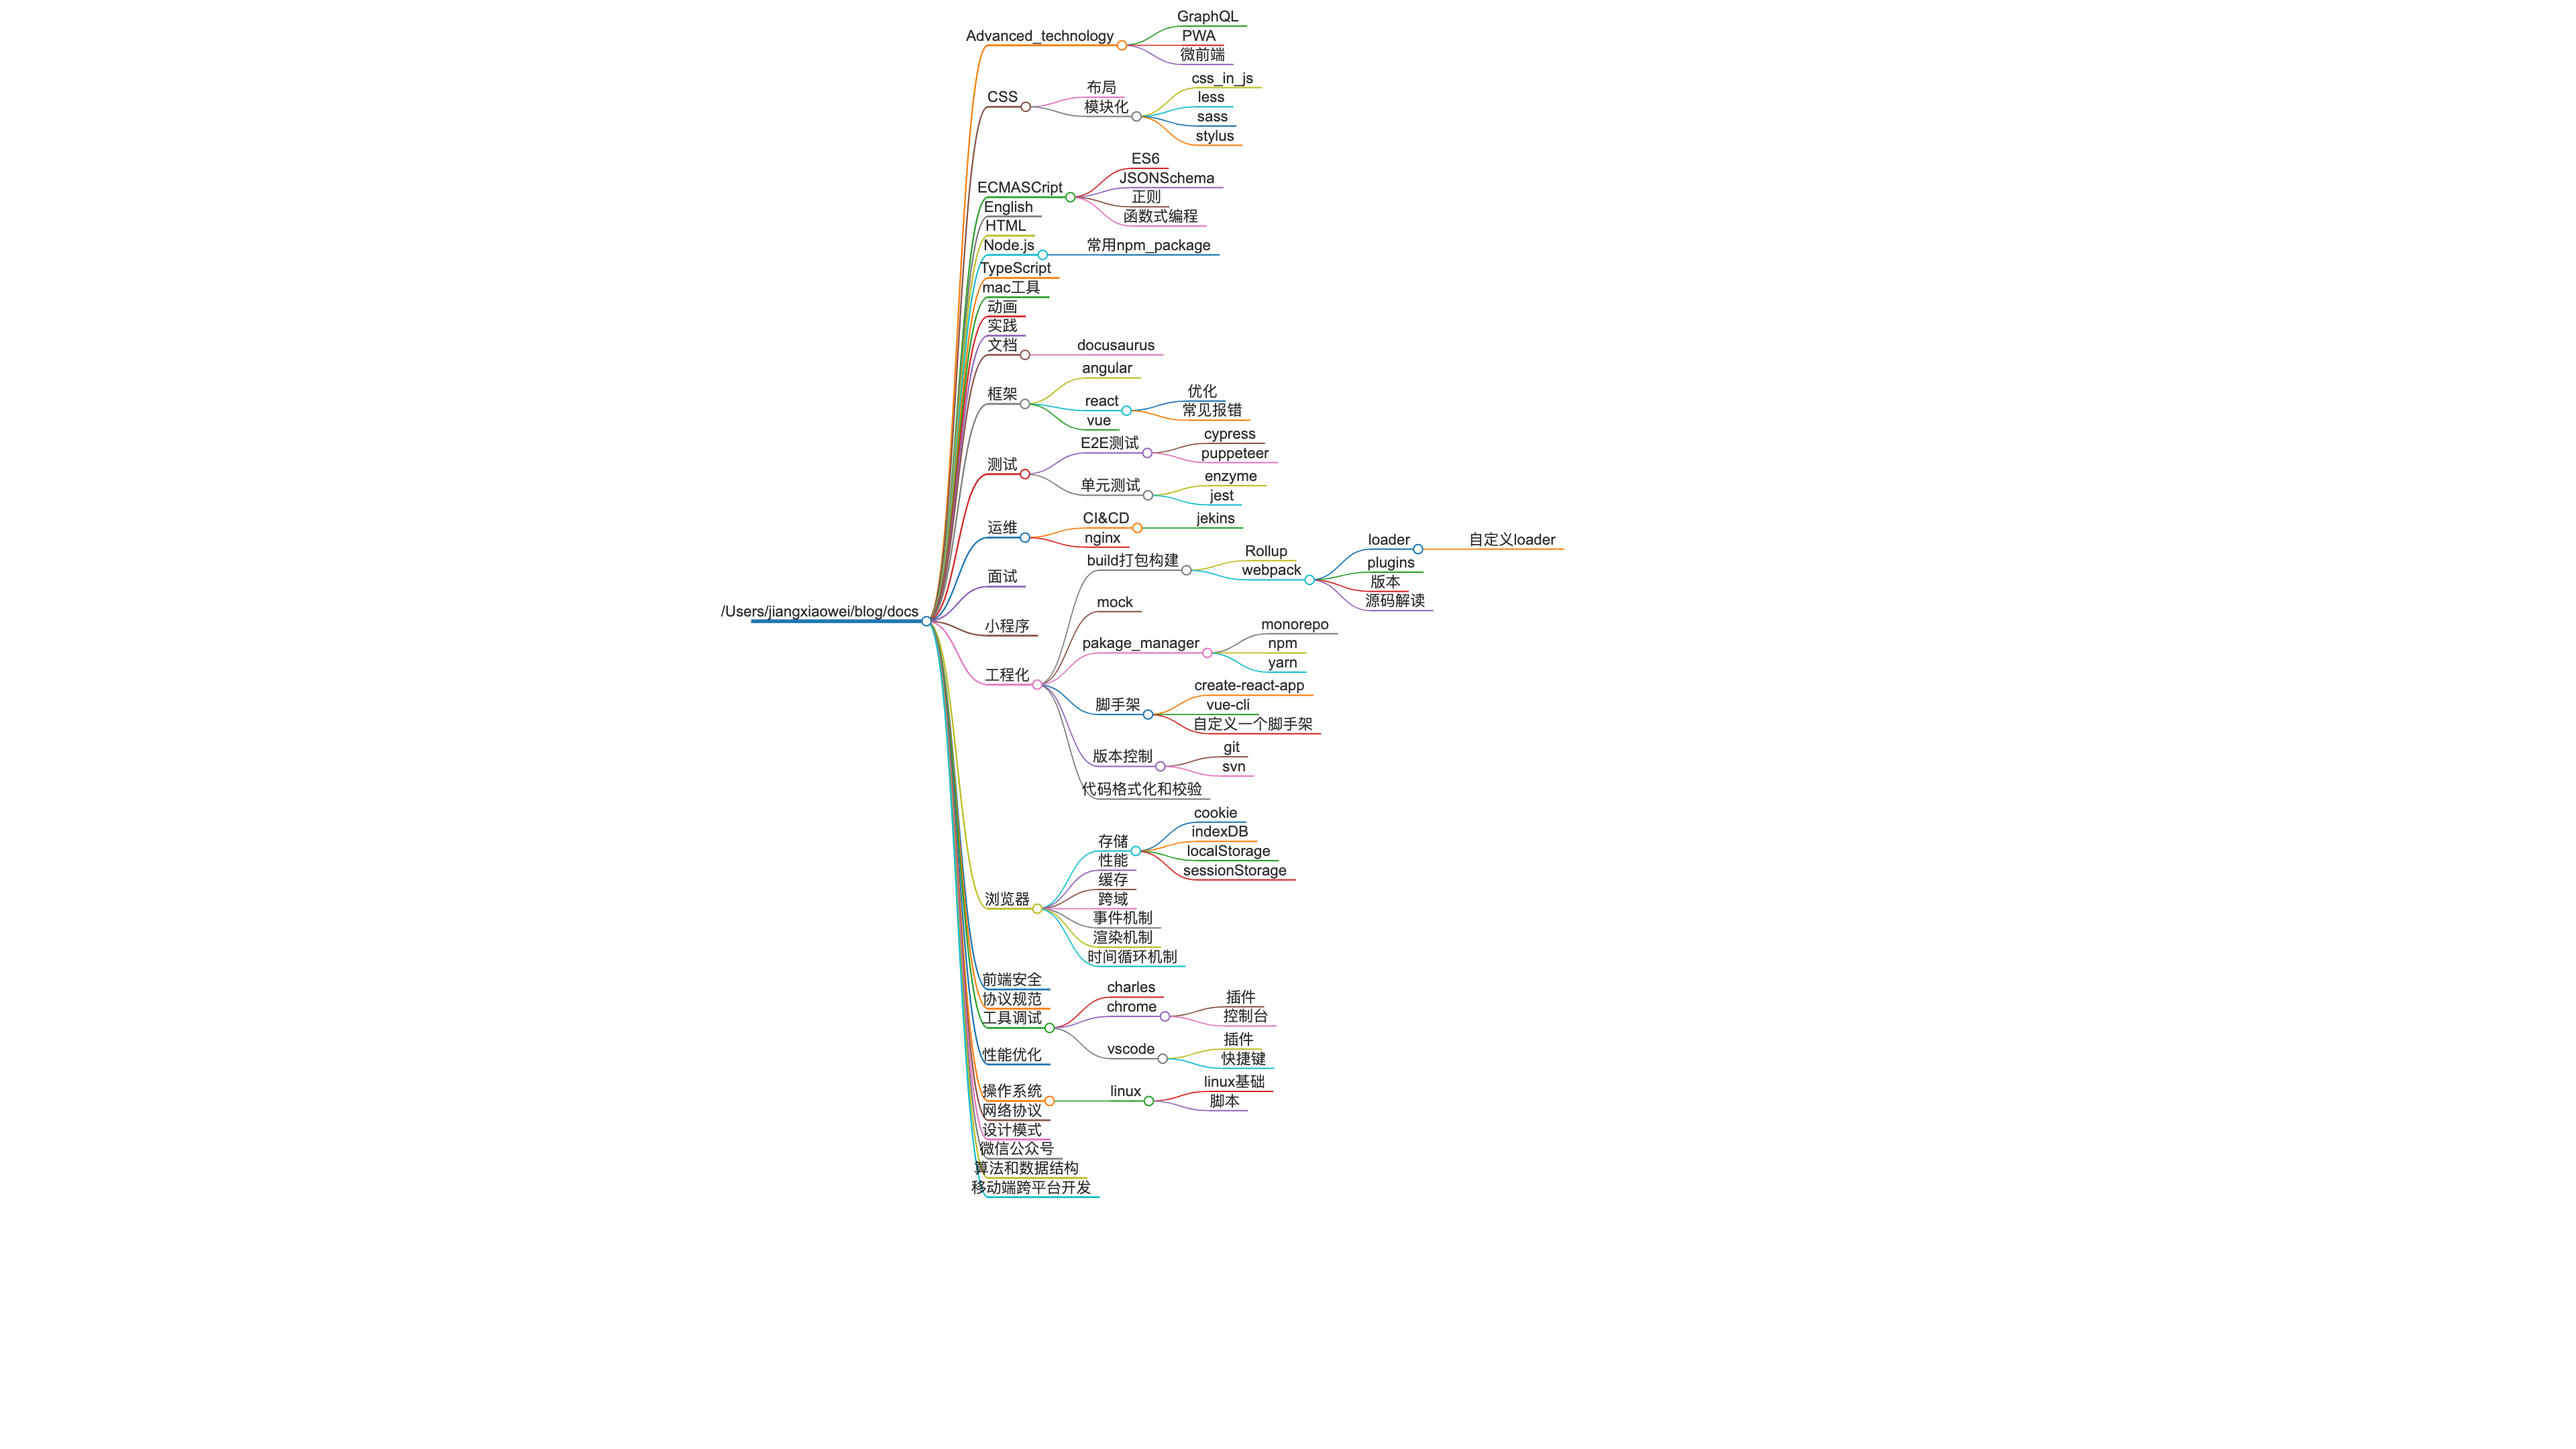
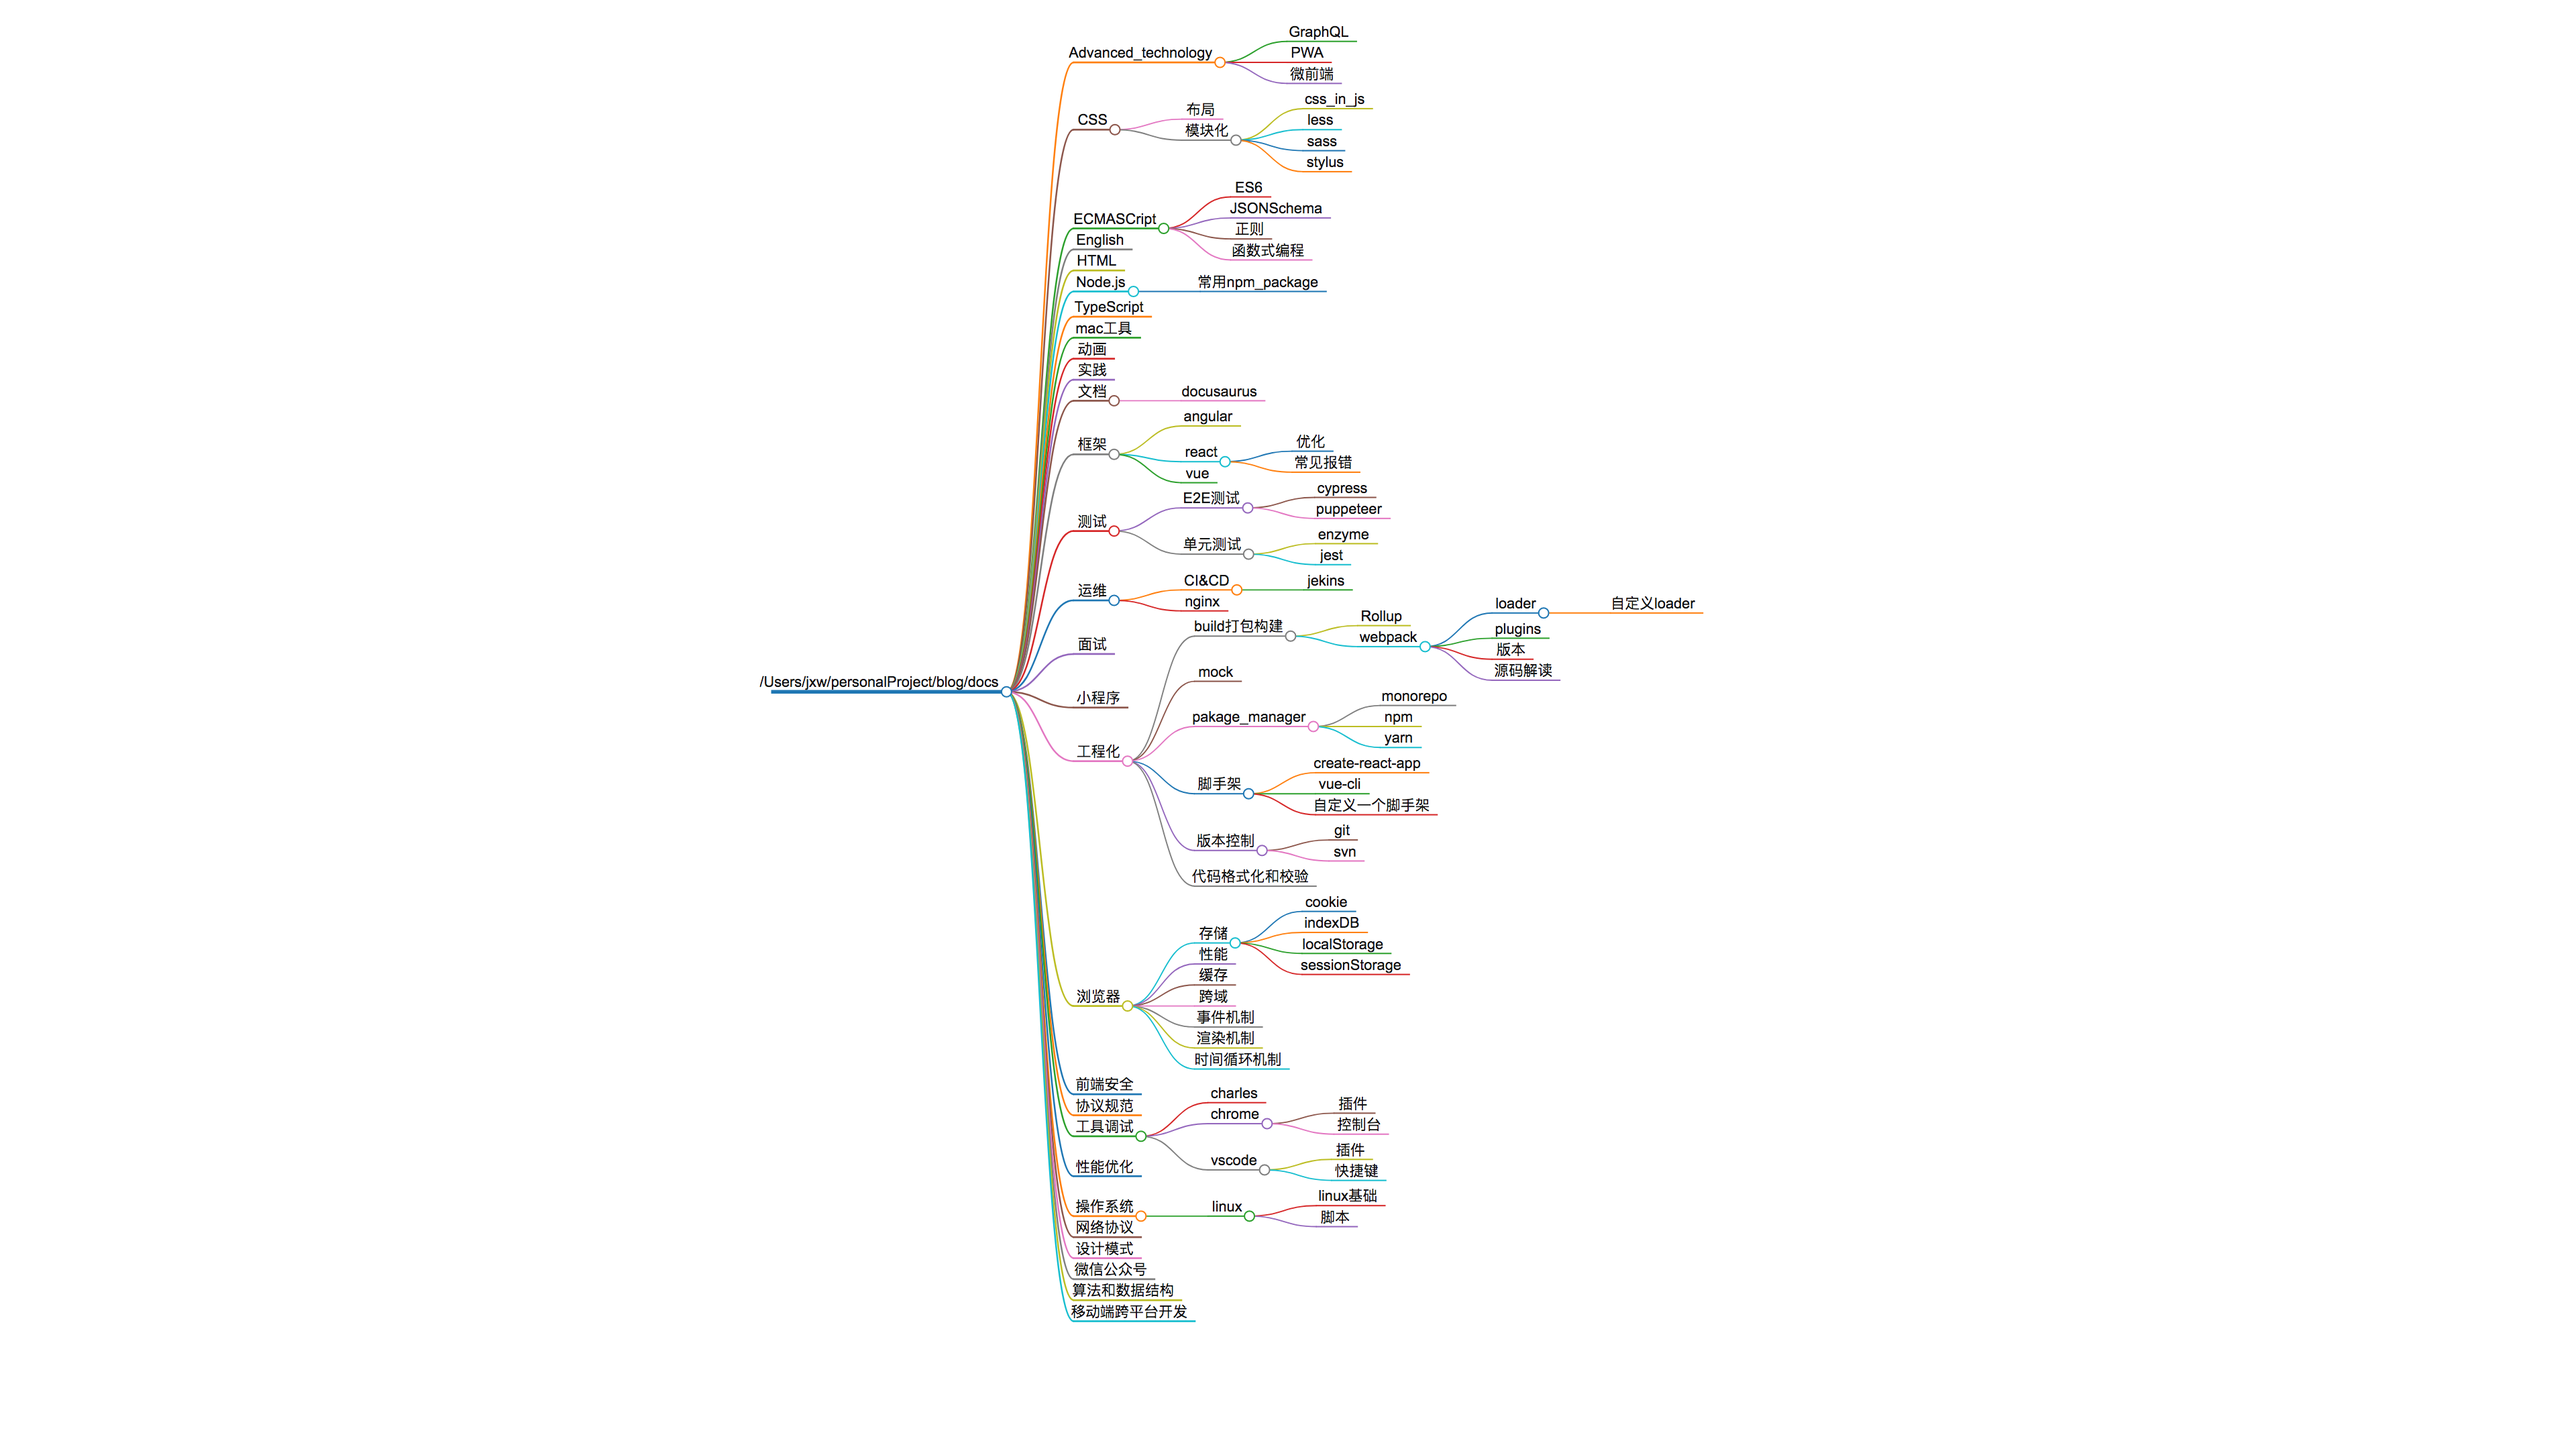
chore: updata思维导图

Changed region(s): [[0.2812, 0.0, 0.5938, 0.9306], [0.625, 0.4032, 0.6562, 0.4343]]

diff --git a/website/static/xmind.html b/website/static/xmind.html
@@ -28,6 +28,6 @@
         (init ? init(loadPlugins, items, opts) : Promise.resolve()).then(() => {
           window.mm = Markmap.create('svg#mindmap', null, data);
         });
-      })({"t":"heading","d":1,"v":"/Users/jiangxiaowei/blog/docs","c":[{"t":"list_item","d":2,"v":"Advanced_technology","c":[{"t":"list_item","d":3,"v":"GraphQL"},{"t":"list_item","d":3,"v":"PWA"},{"t":"list_item","d":3,"v":"微前端"}]},{"t":"list_item","d":2,"v":"CSS","c":[{"t":"list_item","d":3,"v":"布局"},{"t":"list_item","d":3,"v":"模块化","c":[{"t":"list_item","d":4,"v":"css_in_js"},{"t":"list_item","d":4,"v":"less"},{"t":"list_item","d":4,"v":"sass"},{"t":"list_item","d":4,"v":"stylus"}]}]},{"t":"list_item","d":2,"v":"ECMASCript","c":[{"t":"list_item","d":3,"v":"ES6"},{"t":"list_item","d":3,"v":"JSONSchema"},{"t":"list_item","d":3,"v":"正则"},{"t":"list_item","d":3,"v":"函数式编程"}]},{"t":"list_item","d":2,"v":"English"},{"t":"list_item","d":2,"v":"HTML"},{"t":"list_item","d":2,"v":"Node.js","c":[{"t":"list_item","d":3,"v":"常用npm_package"}]},{"t":"list_item","d":2,"v":"TypeScript"},{"t":"list_item","d":2,"v":"mac工具"},{"t":"list_item","d":2,"v":"动画"},{"t":"list_item","d":2,"v":"实践"},{"t":"list_item","d":2,"v":"文档","c":[{"t":"list_item","d":3,"v":"docusaurus"}]},{"t":"list_item","d":2,"v":"框架","c":[{"t":"list_item","d":3,"v":"angular"},{"t":"list_item","d":3,"v":"react","c":[{"t":"list_item","d":4,"v":"优化"},{"t":"list_item","d":4,"v":"常见报错"}]},{"t":"list_item","d":3,"v":"vue"}]},{"t":"list_item","d":2,"v":"测试","c":[{"t":"list_item","d":3,"v":"E2E测试","c":[{"t":"list_item","d":4,"v":"cypress"},{"t":"list_item","d":4,"v":"puppeteer"}]},{"t":"list_item","d":3,"v":"单元测试","c":[{"t":"list_item","d":4,"v":"enzyme"},{"t":"list_item","d":4,"v":"jest"}]}]},{"t":"list_item","d":2,"v":"运维","c":[{"t":"list_item","d":3,"v":"CI&amp;CD","c":[{"t":"list_item","d":4,"v":"jekins"}]},{"t":"list_item","d":3,"v":"nginx"}]},{"t":"list_item","d":2,"v":"面试"},{"t":"list_item","d":2,"v":"小程序"},{"t":"list_item","d":2,"v":"工程化","c":[{"t":"list_item","d":3,"v":"build打包构建","c":[{"t":"list_item","d":4,"v":"Rollup"},{"t":"list_item","d":4,"v":"webpack","c":[{"t":"list_item","d":5,"v":"loader","c":[{"t":"list_item","d":6,"v":"自定义loader"}]},{"t":"list_item","d":5,"v":"plugins"},{"t":"list_item","d":5,"v":"版本"},{"t":"list_item","d":5,"v":"源码解读"}]}]},{"t":"list_item","d":3,"v":"mock"},{"t":"list_item","d":3,"v":"pakage_manager","c":[{"t":"list_item","d":4,"v":"monorepo"},{"t":"list_item","d":4,"v":"npm"},{"t":"list_item","d":4,"v":"yarn"}]},{"t":"list_item","d":3,"v":"脚手架","c":[{"t":"list_item","d":4,"v":"create-react-app"},{"t":"list_item","d":4,"v":"vue-cli"},{"t":"list_item","d":4,"v":"自定义一个脚手架"}]},{"t":"list_item","d":3,"v":"版本控制","c":[{"t":"list_item","d":4,"v":"git"},{"t":"list_item","d":4,"v":"svn"}]},{"t":"list_item","d":3,"v":"代码格式化和校验"}]},{"t":"list_item","d":2,"v":"浏览器","c":[{"t":"list_item","d":3,"v":"存储","c":[{"t":"list_item","d":4,"v":"cookie"},{"t":"list_item","d":4,"v":"indexDB"},{"t":"list_item","d":4,"v":"localStorage"},{"t":"list_item","d":4,"v":"sessionStorage"}]},{"t":"list_item","d":3,"v":"性能"},{"t":"list_item","d":3,"v":"缓存"},{"t":"list_item","d":3,"v":"跨域"},{"t":"list_item","d":3,"v":"事件机制"},{"t":"list_item","d":3,"v":"渲染机制"},{"t":"list_item","d":3,"v":"时间循环机制"}]},{"t":"list_item","d":2,"v":"前端安全"},{"t":"list_item","d":2,"v":"协议规范"},{"t":"list_item","d":2,"v":"工具调试","c":[{"t":"list_item","d":3,"v":"charles"},{"t":"list_item","d":3,"v":"chrome","c":[{"t":"list_item","d":4,"v":"插件"},{"t":"list_item","d":4,"v":"控制台"}]},{"t":"list_item","d":3,"v":"vscode","c":[{"t":"list_item","d":4,"v":"插件"},{"t":"list_item","d":4,"v":"快捷键"}]}]},{"t":"list_item","d":2,"v":"性能优化"},{"t":"list_item","d":2,"v":"操作系统","c":[{"t":"list_item","d":3,"v":"linux","c":[{"t":"list_item","d":4,"v":"linux基础"},{"t":"list_item","d":4,"v":"脚本"}]}]},{"t":"list_item","d":2,"v":"网络协议"},{"t":"list_item","d":2,"v":"设计模式"},{"t":"list_item","d":2,"v":"微信公众号"},{"t":"list_item","d":2,"v":"算法和数据结构"},{"t":"list_item","d":2,"v":"移动端跨平台开发"}]},(loadPlugins, items, opts) => loadPlugins(items, opts),["prism"],{"prism":true})</script>
+      })({"t":"heading","d":1,"v":"/Users/jxw/personalProject/blog/docs","c":[{"t":"list_item","d":2,"v":"Advanced_technology","c":[{"t":"list_item","d":3,"v":"GraphQL"},{"t":"list_item","d":3,"v":"PWA"},{"t":"list_item","d":3,"v":"微前端"}]},{"t":"list_item","d":2,"v":"CSS","c":[{"t":"list_item","d":3,"v":"布局"},{"t":"list_item","d":3,"v":"模块化","c":[{"t":"list_item","d":4,"v":"css_in_js"},{"t":"list_item","d":4,"v":"less"},{"t":"list_item","d":4,"v":"sass"},{"t":"list_item","d":4,"v":"stylus"}]}]},{"t":"list_item","d":2,"v":"ECMASCript","c":[{"t":"list_item","d":3,"v":"ES6"},{"t":"list_item","d":3,"v":"JSONSchema"},{"t":"list_item","d":3,"v":"正则"},{"t":"list_item","d":3,"v":"函数式编程"}]},{"t":"list_item","d":2,"v":"English"},{"t":"list_item","d":2,"v":"HTML"},{"t":"list_item","d":2,"v":"Node.js","c":[{"t":"list_item","d":3,"v":"常用npm_package"}]},{"t":"list_item","d":2,"v":"TypeScript"},{"t":"list_item","d":2,"v":"mac工具"},{"t":"list_item","d":2,"v":"动画"},{"t":"list_item","d":2,"v":"实践"},{"t":"list_item","d":2,"v":"文档","c":[{"t":"list_item","d":3,"v":"docusaurus"}]},{"t":"list_item","d":2,"v":"框架","c":[{"t":"list_item","d":3,"v":"angular"},{"t":"list_item","d":3,"v":"react","c":[{"t":"list_item","d":4,"v":"优化"},{"t":"list_item","d":4,"v":"常见报错"}]},{"t":"list_item","d":3,"v":"vue"}]},{"t":"list_item","d":2,"v":"测试","c":[{"t":"list_item","d":3,"v":"E2E测试","c":[{"t":"list_item","d":4,"v":"cypress"},{"t":"list_item","d":4,"v":"puppeteer"}]},{"t":"list_item","d":3,"v":"单元测试","c":[{"t":"list_item","d":4,"v":"enzyme"},{"t":"list_item","d":4,"v":"jest"}]}]},{"t":"list_item","d":2,"v":"运维","c":[{"t":"list_item","d":3,"v":"CI&amp;CD","c":[{"t":"list_item","d":4,"v":"jekins"}]},{"t":"list_item","d":3,"v":"nginx"}]},{"t":"list_item","d":2,"v":"面试"},{"t":"list_item","d":2,"v":"小程序"},{"t":"list_item","d":2,"v":"工程化","c":[{"t":"list_item","d":3,"v":"build打包构建","c":[{"t":"list_item","d":4,"v":"Rollup"},{"t":"list_item","d":4,"v":"webpack","c":[{"t":"list_item","d":5,"v":"loader","c":[{"t":"list_item","d":6,"v":"自定义loader"}]},{"t":"list_item","d":5,"v":"plugins"},{"t":"list_item","d":5,"v":"版本"},{"t":"list_item","d":5,"v":"源码解读"}]}]},{"t":"list_item","d":3,"v":"mock"},{"t":"list_item","d":3,"v":"pakage_manager","c":[{"t":"list_item","d":4,"v":"monorepo"},{"t":"list_item","d":4,"v":"npm"},{"t":"list_item","d":4,"v":"yarn"}]},{"t":"list_item","d":3,"v":"脚手架","c":[{"t":"list_item","d":4,"v":"create-react-app"},{"t":"list_item","d":4,"v":"vue-cli"},{"t":"list_item","d":4,"v":"自定义一个脚手架"}]},{"t":"list_item","d":3,"v":"版本控制","c":[{"t":"list_item","d":4,"v":"git"},{"t":"list_item","d":4,"v":"svn"}]},{"t":"list_item","d":3,"v":"代码格式化和校验"}]},{"t":"list_item","d":2,"v":"浏览器","c":[{"t":"list_item","d":3,"v":"存储","c":[{"t":"list_item","d":4,"v":"cookie"},{"t":"list_item","d":4,"v":"indexDB"},{"t":"list_item","d":4,"v":"localStorage"},{"t":"list_item","d":4,"v":"sessionStorage"}]},{"t":"list_item","d":3,"v":"性能"},{"t":"list_item","d":3,"v":"缓存"},{"t":"list_item","d":3,"v":"跨域"},{"t":"list_item","d":3,"v":"事件机制"},{"t":"list_item","d":3,"v":"渲染机制"},{"t":"list_item","d":3,"v":"时间循环机制"}]},{"t":"list_item","d":2,"v":"前端安全"},{"t":"list_item","d":2,"v":"协议规范"},{"t":"list_item","d":2,"v":"工具调试","c":[{"t":"list_item","d":3,"v":"charles"},{"t":"list_item","d":3,"v":"chrome","c":[{"t":"list_item","d":4,"v":"插件"},{"t":"list_item","d":4,"v":"控制台"}]},{"t":"list_item","d":3,"v":"vscode","c":[{"t":"list_item","d":4,"v":"插件"},{"t":"list_item","d":4,"v":"快捷键"}]}]},{"t":"list_item","d":2,"v":"性能优化"},{"t":"list_item","d":2,"v":"操作系统","c":[{"t":"list_item","d":3,"v":"linux","c":[{"t":"list_item","d":4,"v":"linux基础"},{"t":"list_item","d":4,"v":"脚本"}]}]},{"t":"list_item","d":2,"v":"网络协议"},{"t":"list_item","d":2,"v":"设计模式"},{"t":"list_item","d":2,"v":"微信公众号"},{"t":"list_item","d":2,"v":"算法和数据结构"},{"t":"list_item","d":2,"v":"移动端跨平台开发"}]},(loadPlugins, items, opts) => loadPlugins(items, opts),["prism"],{"prism":true})</script>
 </body>
 </html>
